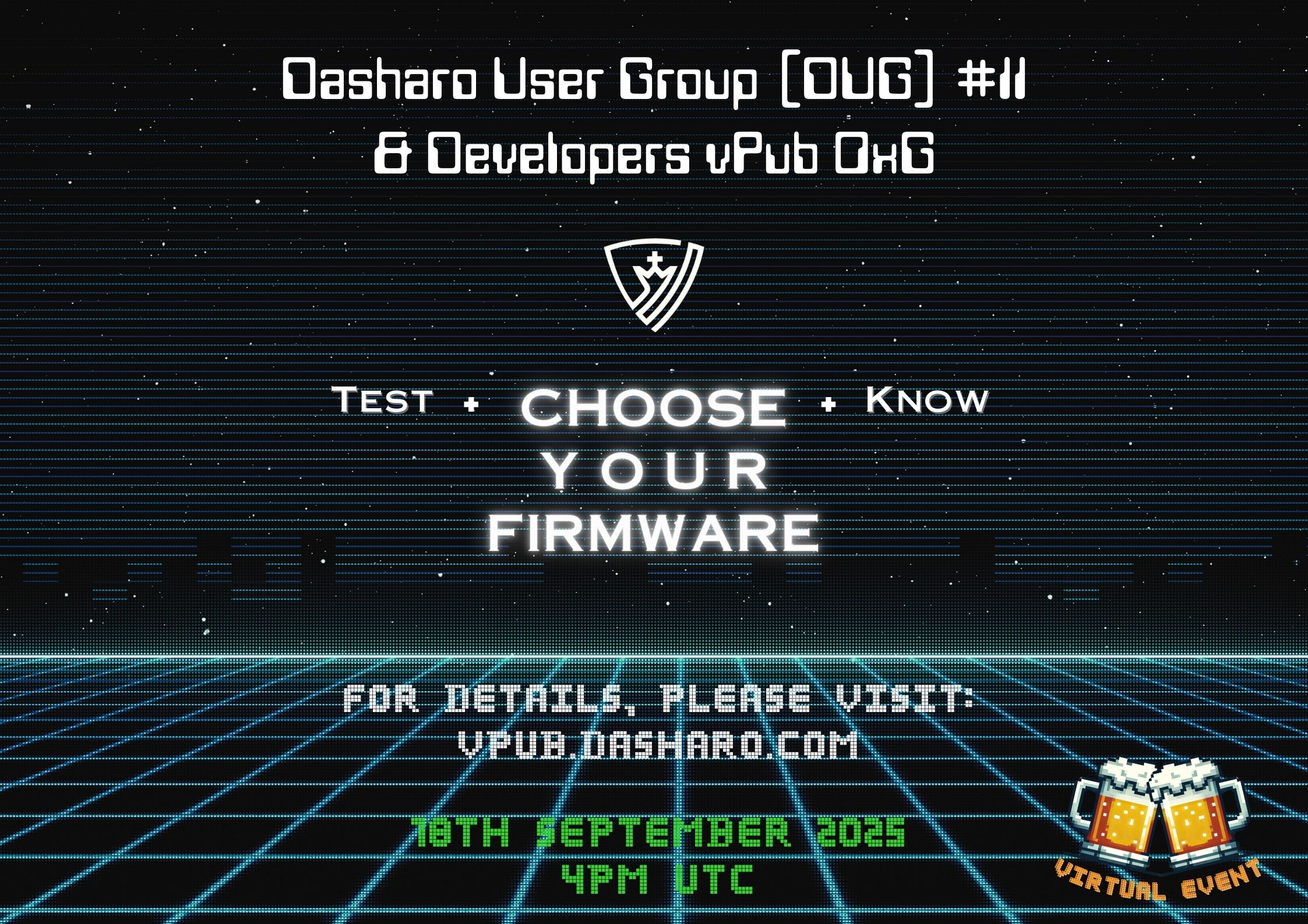
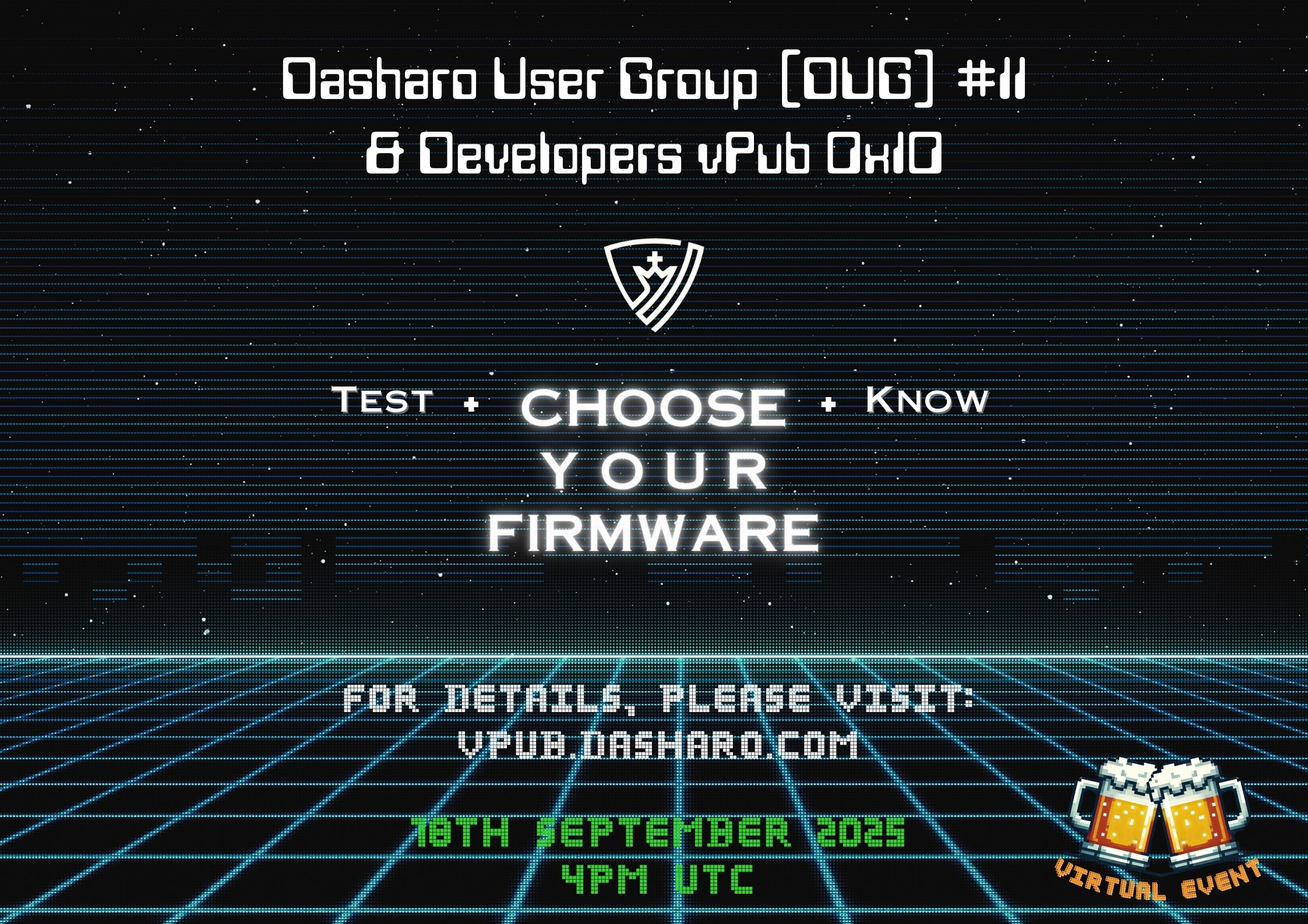
events.md: vpub numeration update

Changed region(s): [[0.2806, 0.1235, 0.7171, 0.2161]]

diff --git a/content/events.md b/content/events.md
@@ -43,14 +43,14 @@ all_events:
       additional_info: |
         ### Dasharo User Group #10 **[Official Page](https://vpub.dasharo.com/e/18/dasharo-user-group-10)**<br><br>
 
-    - title: "Dasharo User Group 0x11 **& Developers vPub 0xG**"
+    - title: "Dasharo User Group 0x11 **& Developers vPub 0x10**"
       status: "upcoming"
       date: "18.09.2025"
       event_poster: "images/events/2025/dug_11.jpg"
       additional_info: |
         ### Dasharo User Group #11 **[Official Page](https://vpub.dasharo.com/e/19/dasharo-user-group-11)**<br><br>
 
-    - title: "Dasharo User Group 0x12 **& Developers vPub 0xH**"
+    - title: "Dasharo User Group 0x12 **& Developers vPub 0x11**"
       status: "upcoming"
       date: "11.12.2025"
       event_poster: "images/events/2025/dug_12.jpg"
